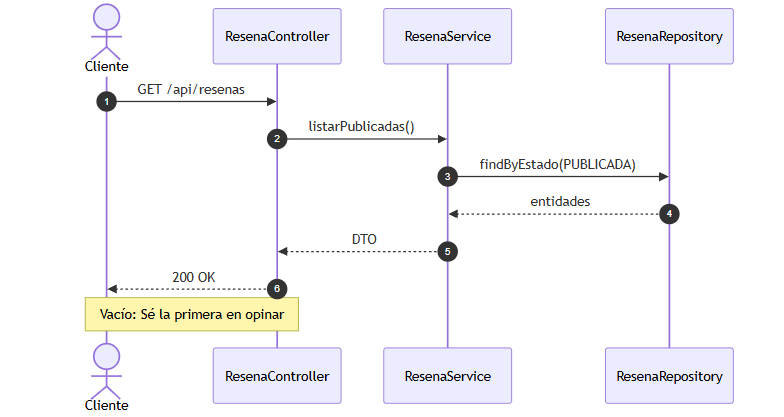
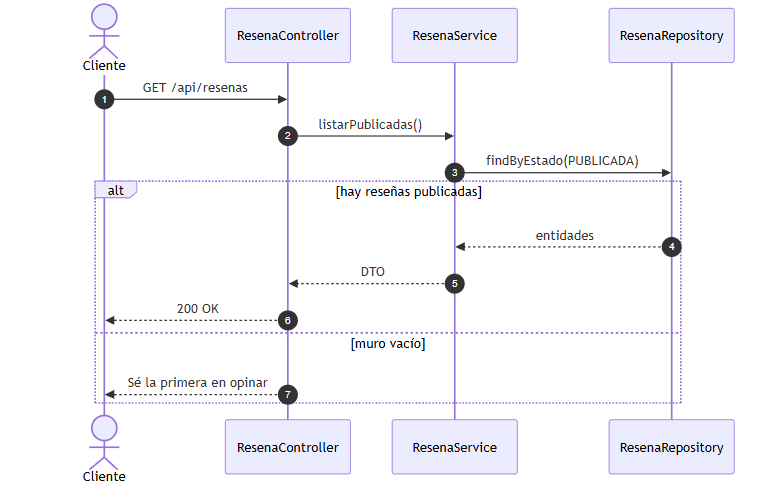
docs: aplicar tema 3 - capas y flujos alternos

diff --git a/docs/03-modelo-de-diseno.md b/docs/03-modelo-de-diseno.md
@@ -1,10 +1,10 @@
 # Modelo de Diseño del Sistema
 
-> **Resumen ejecutivo.** El modelo de análisis se transforma en un modelo físico aplicable a Java 25 LTS + Spring Boot 4.1 y React + TypeScript para Mely Faciales. Se definen 4 paquetes, 5 subsistemas, 5 interfaces de aplicación, las clases del diseño y 8 realizaciones de caso de uso. El resultado son 20 diagramas referenciados desde `images/modelo-de-diseno/`.
+> **Resumen ejecutivo.** El modelo de análisis se transforma en un modelo físico aplicable a Java 25 LTS + Spring Boot 4.1 y React + TypeScript para Mely Faciales. Se definen 4 paquetes, 5 subsistemas, 5 interfaces de aplicación, las clases del diseño y 8 realizaciones de caso de uso. El resultado son 21 diagramas referenciados desde `images/modelo-de-diseno/`.
 
 | Campo | Valor |
 |---|---|
-| Versión | 1.2 |
+| Versión | 1.3 |
 | Estado | Aprobado para Sprint 0 |
 | Actualizado | 2026-11-25 |
 | Autor | Erin Nodarse |
@@ -12,7 +12,7 @@
 | Modelado | UML |
 | Sprint | 0 |
 
-**Índice de secciones:** 1. Contexto · 2. Análisis a diseño · 3. Jerarquía · 4. Paquetes · 5. Subsistemas · 6. Interfaces · 7. Clases del diseño · 8. Realizaciones · 9. Trazabilidad · 10. Cobertura · 11. Conclusiones.
+**Índice de secciones:** 1. Contexto · 2. Análisis a diseño · 3. Jerarquía · 3.1 Arquitectura en capas · 4. Paquetes · 5. Subsistemas · 6. Interfaces · 7. Clases del diseño · 8. Realizaciones · 9. Trazabilidad · 10. Cobertura · 11. Conclusiones.
 
 ## 1. Contexto y objetivos
 El diseño modela el sistema y define su arquitectura. La entrada esencial es el Modelo de Análisis ya documentado. Se impone una estructura que debe conservarse durante la implementación.
@@ -36,6 +36,18 @@ Objetivos del diseño en este proyecto:
 
 ## 3. Jerarquía del modelo de diseño
 El sistema de diseño se organiza en subsistemas; cada subsistema reúne paquetes, clases, interfaces y realizaciones de caso de uso. Esta jerarquía permite administrar la complejidad sin modificar lo ya desplegado.
+
+### 3.1 Arquitectura en capas
+La arquitectura se organiza en cuatro capas. Una capa solo puede emplear funcionalidades de la misma capa o de capas inferiores; están prohibidas las dependencias ascendentes.
+
+| Capa | Paquete / tecnología | Contenido |
+|---|---|---|
+| 1. Presentación | React + `com.melyfaciales.interfaz` | Componentes React, `@RestController`, DTO |
+| 2. Lógica de negocio | `com.melyfaciales.negocio` | `@Service`, interfaces de aplicación |
+| 3. Acceso a datos e infraestructura | `com.melyfaciales.infraestructura` | Repositorios JPA, `MediaStorage`, configuración |
+| 4. Dominio | `com.melyfaciales.dominio` | Entidades, enums y reglas |
+
+![Arquitectura en capas](<images/modelo-de-diseno/capas/capas-diseno.png>)
 
 ## 4. Paquetes de diseño
 
@@ -99,58 +111,66 @@ Las clases del diseño especifican visibilidad, atributos, tipos y operaciones c
 ### CU-01 — Consultar catálogo de servicios
 `ServicioController` expone `GET /api/servicios`; `ServicioService` delega en `ServicioRepository` y convierte entidades en DTO.
 
+**Subsistema:** `SubsistemaCatalogo` · **Interfaz:** `GestionServicios`
 - Clases: ![Clases CU-01](<images/modelo-de-diseno/clases-de-diseno/CU-01-clases-diseno.png>)
 - Colaboración: ![Colaboración CU-01](<images/modelo-de-diseno/colaboracion-diseno/CU-01-colaboracion-diseno.png>)
-- Mensajes: 1. GET /api/servicios · 2. listarActivos() · 3. findByActivoTrue() · 4. consulta JPA (PostgreSQL) · 5. entidades · 6. lista · 7. DTO · 8. 200 OK / 8a. Próximamente.
+- Mensajes: 1. GET /api/servicios · 2. listarActivos() · 3. findByActivoTrue() · 4. consulta JPA (PostgreSQL) · alt hay servicios activos: entidades, lista, DTO, 200 OK · else sin servicios activos: Próximamente.
 
 ### CU-02 — Ver detalle de servicio
 Incluye `Publicacion` como fuente del micro-video o la imagen de portada; si no hay video, se devuelve `imagenUrl`.
 
+**Subsistema:** `SubsistemaCatalogo` · **Interfaz:** `GestionServicios`
 - Clases: ![Clases CU-02](<images/modelo-de-diseno/clases-de-diseno/CU-02-clases-diseno.png>)
 - Colaboración: ![Colaboración CU-02](<images/modelo-de-diseno/colaboracion-diseno/CU-02-colaboracion-diseno.png>)
-- Mensajes: 1. GET /api/servicios/{id} · 2. obtenerDetalle(id) · 3. findById(id) · 4. findByServicio(id) · 5. Servicio · 6. Publicacion · 7. DTO con videoUrl · 8. 200 OK / 8a. imagenUrl.
+- Mensajes: 1. GET /api/servicios/{id} · 2. obtenerDetalle(id) · 3. findById(id) · 4. findByServicio(id) · alt hay video: DTO con videoUrl y 200 OK · else sin video: DTO con imagenUrl.
 
 ### CU-03 — Publicar reseña
 `ResenaService` usa `MediaStorage` antes de persistir; la reseña nace con `estado=PUBLICADA`.
 
+**Subsistema:** `SubsistemaResenas` + `SubsistemaMedios` · **Interfaz:** `GestionResenas` + `MediaStorage`
 - Clases: ![Clases CU-03](<images/modelo-de-diseno/clases-de-diseno/CU-03-clases-diseno.png>)
 - Colaboración: ![Colaboración CU-03](<images/modelo-de-diseno/colaboracion-diseno/CU-03-colaboracion-diseno.png>)
-- Mensajes: 1. POST /api/resenas · 2. publicar(datos) · 3. guardarFoto(opcional) · 4. fotoUrl · 5. guardar(Resena) · 6. Resena PUBLICADA · 7. DTO · 8. 201 Created.
+- Mensajes: 1. POST /api/resenas · 2. publicar(datos) · alt datos válidos: validar, guardarFoto(opcional) o sin foto, guardar(Resena), DTO, 201 Created · else datos inválidos: 400 Bad Request.
 
 ### CU-04 — Consultar muro de reseñas
 Filtra por `EstadoResena.PUBLICADA`.
 
+**Subsistema:** `SubsistemaResenas` · **Interfaz:** `GestionResenas`
 - Clases: ![Clases CU-04](<images/modelo-de-diseno/clases-de-diseno/CU-04-clases-diseno.png>)
 - Colaboración: ![Colaboración CU-04](<images/modelo-de-diseno/colaboracion-diseno/CU-04-colaboracion-diseno.png>)
-- Mensajes: 1. GET /api/resenas · 2. listarPublicadas() · 3. findByEstado(PUBLICADA) · 4. entidades · 5. DTO · 6. 200 OK / 6a. estado vacío.
+- Mensajes: 1. GET /api/resenas · 2. listarPublicadas() · 3. findByEstado(PUBLICADA) · alt hay reseñas: entidades, DTO, 200 OK · else muro vacío: Sé la primera en opinar.
 
 ### CU-05 — Contactar por WhatsApp
 `WhatsAppLinkGenerator` construye el deep link con el número único de Mely y mensaje contextual según el servicio.
 
+**Subsistema:** `SubsistemaIntegraciones` · **Interfaz:** `GeneradorEnlacesWhatsApp`
 - Clases: ![Clases CU-05](<images/modelo-de-diseno/clases-de-diseno/CU-05-clases-diseno.png>)
 - Colaboración: ![Colaboración CU-05](<images/modelo-de-diseno/colaboracion-diseno/CU-05-colaboracion-diseno.png>)
-- Mensajes: 1. Pulsar CTA · 2. construir(servicio) · 3. https://wa.me/5355795510?text=... · 4. URL · 5. Abrir conversación.
+- Mensajes: 1. Pulsar CTA · 2. construir(servicio) · alt WhatsApp disponible: URL y abrir conversación · else sin WhatsApp: copiar +5355795510.
 
 ### CU-06 — Eliminar reseña
 Requiere sesión ADMIN; el borrado se confirma antes de llamar al repositorio.
 
+**Subsistema:** `SubsistemaIdentidad` + `SubsistemaResenas` · **Interfaz:** `GestionIdentidad` + `GestionResenas`
 - Clases: ![Clases CU-06](<images/modelo-de-diseno/clases-de-diseno/CU-06-clases-diseno.png>)
 - Colaboración: ![Colaboración CU-06](<images/modelo-de-diseno/colaboracion-diseno/CU-06-colaboracion-diseno.png>)
-- Mensajes: 1. credenciales · 2. Sesion ADMIN · 3. Seleccionar reseña · 4. confirmarEliminacion() · 5. DELETE /api/resenas/{id} · 6. eliminar(id) · 7. deleteById(id) · 8. confirmación · 9. 204 No Content · 10. Muro actualizado / 10a. error al borrar.
+- Mensajes: 1. credenciales · alt credenciales válidas: Sesion ADMIN, seleccionar, confirmar, DELETE, eliminar, deleteById, 204 No Content y muro actualizado; else cancelación: operación cancelada · else credenciales inválidas: 401 Unauthorized.
 
 ### CU-07 — Iniciar sesión
 `AuthController` delega en `GestionIdentidad`; `AuthService` valida contra `Administradora`.
 
+**Subsistema:** `SubsistemaIdentidad` · **Interfaz:** `GestionIdentidad`
 - Clases: ![Clases CU-07](<images/modelo-de-diseno/clases-de-diseno/CU-07-clases-diseno.png>)
 - Colaboración: ![Colaboración CU-07](<images/modelo-de-diseno/colaboracion-diseno/CU-07-colaboracion-diseno.png>)
-- Mensajes: 1. /admin · 2. Mostrar formulario · 3. usuario y clave · 4. POST /api/auth/login · 5. autenticar(usuario, clave) · 6. buscarPorUsuario() · 7. resultado · 8. Sesion ADMIN / 8a. 401 · 9. 200 OK · 10. Panel.
+- Mensajes: 1. /admin · 2. Mostrar formulario · 3. usuario y clave · 4. POST /api/auth/login · 5. autenticar · 6. buscarPorUsuario · 7. resultado · alt credenciales válidas y sesión inactiva: Sesion ADMIN, 200 OK y Panel · else credenciales inválidas: 401 · else sesión ya activa: mensaje.
 
 ### CU-08 — Gestionar contenido del catálogo
 Permite cambiar texto y/o video sin volver a desplegar; el video se sube vía `MediaStorage`.
 
+**Subsistema:** `SubsistemaCatalogo` + `SubsistemaMedios` · **Interfaz:** `GestionServicios` + `MediaStorage`
 - Clases: ![Clases CU-08](<images/modelo-de-diseno/clases-de-diseno/CU-08-clases-diseno.png>)
 - Colaboración: ![Colaboración CU-08](<images/modelo-de-diseno/colaboracion-diseno/CU-08-colaboracion-diseno.png>)
-- Mensajes: 1. Editar servicio · 2. PUT /api/servicios/{id} · 3. actualizar(servicio) · 4. guardarVideo(opcional) · 5. videoUrl · 6. guardar(servicio) · 7. actualizado · 8. ServicioDTO · 9. 200 OK · 10. Catálogo actualizado / 10a. error al guardar.
+- Mensajes: 1. Editar servicio · 2. PUT /api/servicios/{id} · 3. actualizar · alt servicio válido: guardarVideo(opcional) o solo texto, guardar, DTO, 200 OK y catálogo actualizado · else error al guardar: 500.
 
 ## 9. Trazabilidad análisis → diseño → implementación prevista
 
@@ -174,11 +194,13 @@ Permite cambiar texto y/o video sin volver a desplegar; el video se sube vía `M
 - [x] CU-06: sesión válida, confirmación y error al borrar
 - [x] CU-07: credenciales válidas e inválidas
 - [x] CU-08: texto, video y error al guardar
+- Los 8 diagramas de secuencia del diseño incluyen bloques `alt` para los flujos alternos.
 
 ## 11. Conclusiones
 - El modelo de análisis es conceptual; el modelo de diseño es físico y conserva su estructura como esquema de implementación.
 - El diseño especifica visibilidad, tipos y operaciones usando la sintaxis del lenguaje elegido.
 - El resultado principal es el modelo de diseño, integrado por clases del diseño, paquetes, subsistemas e interfaces de aplicación.
+- La arquitectura en capas garantiza dependencias descendentes entre presentación, negocio, infraestructura y dominio.
 
 ---
 

diff --git a/SPRINTBOARD.md b/SPRINTBOARD.md
@@ -32,6 +32,7 @@ Dar visibilidad a Mely Faciales mediante una web rápida, móvil y visual, donde
 | DOC-03 | Crear README, CHANGELOG y Sprintboard | Media | 2 | 0 |
 | DOC-04 | Documentar modelo de diseño y generar diagramas | Alta | 8 | 0 |
 | DOC-05 | Reorientar la documentación a Mely Faciales y regenerar diagramas | Alta | 8 | 0 |
+| DOC-06 | Documentar arquitectura en capas y flujos alternos | Alta | 5 | 0 |
 | RF-01 a RF-09 | Funcionalidades del catálogo, reseñas, WhatsApp y admin | Alta | Por estimar | 1 |
 | RNF-01 a RNF-10 | Rendimiento, responsive, seguridad, SEO, escalabilidad | Alta | Por estimar | 1 |
 | CU-01 a CU-08 | Realizaciones documentadas para Mely Faciales (análisis y diseño) | Alta | 8 | 0 |
@@ -39,7 +40,7 @@ Dar visibilidad a Mely Faciales mediante una web rápida, móvil y visual, donde
 ## Sprint 0 — Definición y documentación (2026-11-25 → 2026-12-08)
 **Objetivo:** definir por completo el sistema (requisitos, análisis y diseño) antes de escribir código.
 
-Progreso del Sprint 0: `██████████ 100%` (13/13 tareas Done).
+Progreso del Sprint 0: `██████████ 100%` (14/14 tareas Done).
 
 | Tarea | Estado |
 |---|---|
@@ -51,11 +52,12 @@ Progreso del Sprint 0: `██████████ 100%` (13/13 tareas Done)
 | Modelo de análisis con referencias a diagramas | Done |
 | Exportar 18 diagramas de análisis | Done |
 | Documento del Modelo de Diseño | Done |
-| 20 diagramas exportados a PNG | Done |
+| 21 diagramas exportados a PNG | Done |
 | Actualización de README y CHANGELOG | Done |
 | Actualización del Sprintboard | Done |
-| Reorientación a Mely Faciales y regeneración de 38 diagramas | Done |
+| Reorientación a Mely Faciales y regeneración de 39 diagramas | Done |
 | Diagrama de paquetes y colaboraciones numeradas | Done |
+| Arquitectura en capas y flujos alternos del diseño | Done |
 
 ## Sprints futuros (por definir)
 - Sprint 1: implementación del backend Spring Boot y del frontend React.

diff --git a/CHANGELOG.md b/CHANGELOG.md
@@ -7,12 +7,13 @@ El formato sigue *Keep a Changelog* y la versión sigue *Semantic Versioning*.
 
 ### Added
 - Documento del Modelo de Diseño del Sistema con paquetes, subsistemas, interfaces y realizaciones de caso de uso.
-- Estructura `docs/images/modelo-de-diseno/` con 20 diagramas exportados.
+- Estructura `docs/images/modelo-de-diseno/` con 21 diagramas exportados.
 - Actualización de README.md y SPRINTBOARD.md con la documentación cerrada en Sprint 0.
 - Reorientación del proyecto a Mely Faciales con catálogo exclusivo de tratamientos faciales.
 - Número de WhatsApp confirmado: `+5355795510`, con deep link `https://wa.me/5355795510?text=...`.
-- Los 38 diagramas regenerados para reflejar el nuevo alcance.
+- Los 39 diagramas regenerados para reflejar el nuevo alcance.
 - Diagramas de análisis con estereotipos Boundary/Control/Entity, paquete de análisis y colaboraciones con mensajes numerados.
+- Arquitectura en capas documentada con diagrama propio; realizaciones de CU-Diseño con flujos alternos mediante bloques `alt`.
 
 ### Changed
 - Se eliminaron las referencias académicas de la documentación para presentarla como documentación profesional del proyecto.

diff --git a/README.md b/README.md
@@ -25,7 +25,7 @@ Documentación de definición de Mely Faciales completada en Sprint 0 (requisito
 - `docs/02-modelo-de-analisis.md` — modelo de análisis UML y referencia a diagramas.
 - `docs/03-modelo-de-diseno.md` — modelo de diseño UML y referencia a diagramas.
 - `docs/images/diagramas de clases del analisis/` — imágenes de los diagramas.
-- `docs/images/modelo-de-diseno/` — imágenes del diseño (paquetes, subsistemas, interfaces, clases y colaboración).
+- `docs/images/modelo-de-diseno/` — imágenes del diseño (paquetes, subsistemas, interfaces, clases, capas y colaboración).
 - `SPRINTBOARD.md` — planificación Scrum.
 - `CHANGELOG.md` — historial de cambios.
 
